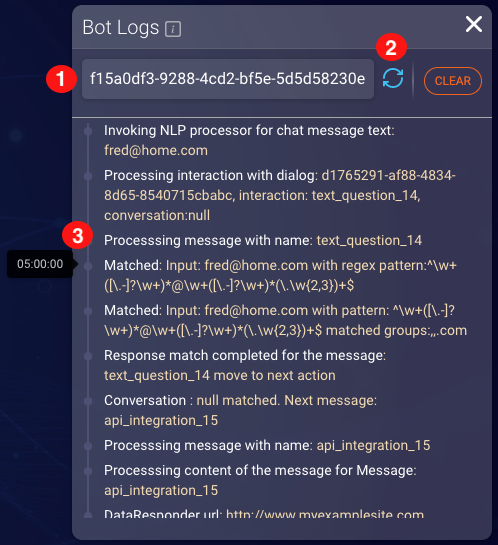
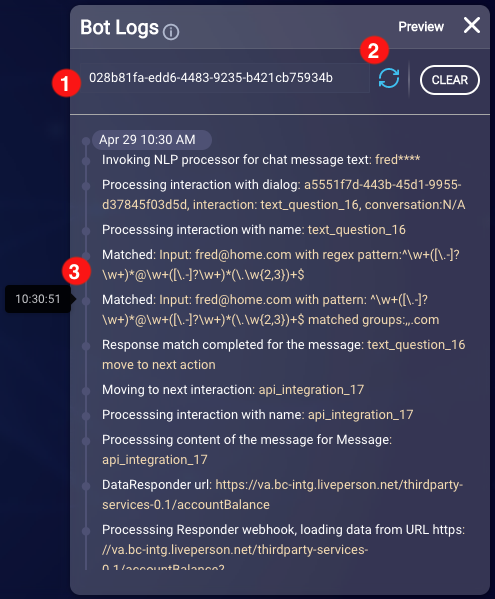
Update topic for Dialog Editor 2.0

diff --git a/pages/documents/ConversationalAI/ConversationBuilder/TestingAndDeployment/Debugging.md b/pages/documents/ConversationalAI/ConversationBuilder/TestingAndDeployment/Debugging.md
@@ -28,7 +28,7 @@ Errors and failures are displayed <font color="red">in red</font>, so you can sp
 
 **To display the log for the conversation that occurred in the Preview window**
 
-- In the upper-right corner, click <img style="width:30px" src="img/ConvoBuilder/icon_ellipsisVertical.png">, and select **Bot Logs**.
+* In the upper-right corner of the Preview window, click **Bot Logs**. This toggles the display to show the Bot Logs window.
     
     For ease of use during bot development, by default, the user ID for the consumer in the conversation in the Preview window is entered in the User Id input box, and the associated logs are automatically displayed.
 
@@ -41,9 +41,10 @@ Errors and failures are displayed <font color="red">in red</font>, so you can sp
     <img style="width:250px" src="img/ConvoBuilder/debug_displayID.png">
 
 2. Copy the ID.
-3. Return to Conversation Builder, open a bot, and click <img style="width:30px" src="img/ConvoBuilder/icon_debug.png"> in the lower-right corner to open the Bot Logs window.
-4. Enter or paste the ID into the **User ID** input box.
-5. Click <img style="width:30px" src="img/ConvoBuilder/icon_refresh.png">.
+3. Return to Conversation Builder, open a bot, and click **Preview** in the upper-right corner.
+4. In the upper-right corner of the Preview window, click **Bot Logs**.
+5. Enter or paste the ID into the **User ID** input box.
+6. Click <img style="width:30px" src="img/ConvoBuilder/icon_refresh.png">.
 
 ### Printing the most recent user message
 
